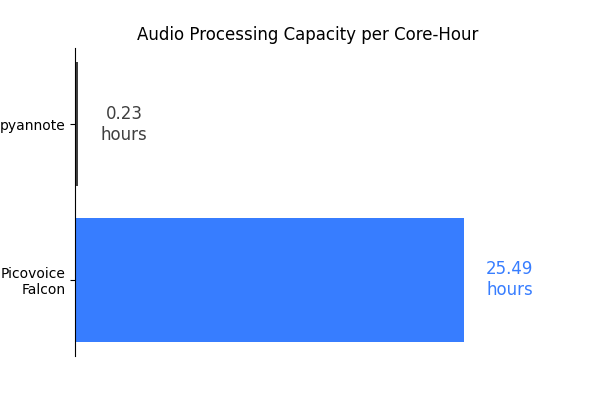
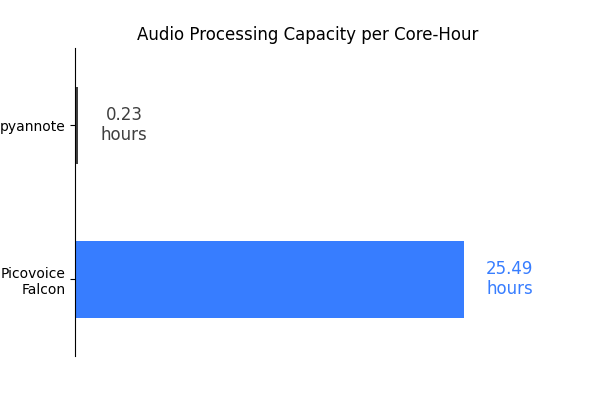
wip

diff --git a/plot_results.py b/plot_results.py
@@ -11,6 +11,11 @@ from engine import Engines
 
 Color = Tuple[float, float, float]
 
+import matplotlib
+
+fm = matplotlib.font_manager
+fm._get_fontconfig_fonts.cache_clear()
+
 
 def rgb_from_hex(x: str) -> Color:
     x = x.strip("# ")
@@ -144,7 +149,7 @@ def _plot_cpu(
         ax.barh(
             ENGINE_PRINT_NAMES.get(engine_type, engine_type.value),
             processing_capacity,
-            # width=0.5,
+            height=0.5,
             color=ENGINE_COLORS.get(engine_type, WHITE),
             edgecolor="none",
             label=ENGINE_PRINT_NAMES.get(engine_type, engine_type.value),
@@ -164,6 +169,7 @@ def _plot_cpu(
     ax.spines["right"].set_visible(False)
     plt.xlim([0, xlim + 5])
     ax.set_xticks([])
+    ax.set_ylim([-0.5, 1.5])
     plt.title("Audio Processing Capacity per Core-Hour", fontsize=12)
     plt.savefig(os.path.join(save_path, "cpu_usage_comparison.png"))
 
@@ -173,6 +179,7 @@ def _plot_cpu(
     plt.close()
 
     return num_workers
+
 
 def _plot_mem(
         engine_list: List[Engines],
@@ -193,20 +200,18 @@ def _plot_mem(
         engines_results_mem[engine_type] = results_json
 
     fig, ax = plt.subplots(figsize=(6, 4))
-    xlim = 0
     for engine_type, engine_value in engines_results_mem.items():
         max_mem_usage = engine_value["max_mem_GiB"] / num_workers[engine_type]
-        xlim = max(xlim, max_mem_usage)
         ax.barh(
             ENGINE_PRINT_NAMES.get(engine_type, engine_type.value),
             max_mem_usage,
-            # width=0.5,
+            height=0.5,
             color=ENGINE_COLORS.get(engine_type, WHITE),
             edgecolor="none",
             label=ENGINE_PRINT_NAMES.get(engine_type, engine_type.value),
         )
         ax.text(
-            max_mem_usage + 0.3,
+            max_mem_usage + 0.15,
             ENGINE_PRINT_NAMES.get(engine_type, engine_type.value),
             f"{max_mem_usage:.2f}GiB",
             ha="center",
@@ -219,7 +224,7 @@ def _plot_mem(
     ax.spines["bottom"].set_visible(False)
     ax.spines["right"].set_visible(False)
     ax.set_xticks([])
-    plt.xlim([0, xlim + 1])
+    ax.set_ylim([-0.5, 1.5])
     plt.title("Total Memory Usage per Core", fontsize=12)
     plt.savefig(os.path.join(save_path, "mem_usage_comparison.png"))
 

diff --git a/benchmark.py b/benchmark.py
@@ -185,6 +185,7 @@ def _process_cpu_process_pool(
     with open(results_path, "w") as f:
         json.dump(results, f, indent=2)
 
+
 def main() -> None:
     parser = argparse.ArgumentParser()
     parser.add_argument("--dataset", choices=[ds.value for ds in Datasets], required=True)

diff --git a/README.md b/README.md
@@ -16,9 +16,9 @@ This repo is a minimalist and extensible framework for benchmarking different sp
 
 ### [VoxConverse](https://www.robots.ox.ac.uk/~vgg/data/voxconverse/)
 
-VoxConverse features speakers conversing in multiple languages. In this benchmark, we employ cloud-based
+VoxConverse is a well-known dataset in speaker diarization field which features speakers conversing in multiple languages. In this benchmark, we employ cloud-based
 Speech-to-Text engines equipped with speaker diarization capabilities. Therefore, for benchmarking purposes, the English
-subset of the dataset is used.
+subset of the test section of the dataset is used.
 
 ### Setup
 
@@ -32,8 +32,8 @@ subset of the dataset is used.
 ### Diarization Error Rate (DER)
 
 The Diarization Error Rate (DER) is the most common metric for evaluating speaker diarization systems. DER is
-calculated by summing the time duration of three distinct errors: speaker confusion (ERR), false alarms (FA), and missed
-detections (MISS). This total duration is then divided by the overall time span.
+calculated by summing the time duration of three distinct errors: speaker confusion, false alarms, and missed
+detections. This total duration is then divided by the overall time span.
 
 ### Jaccard Error Rate (JER)
 
